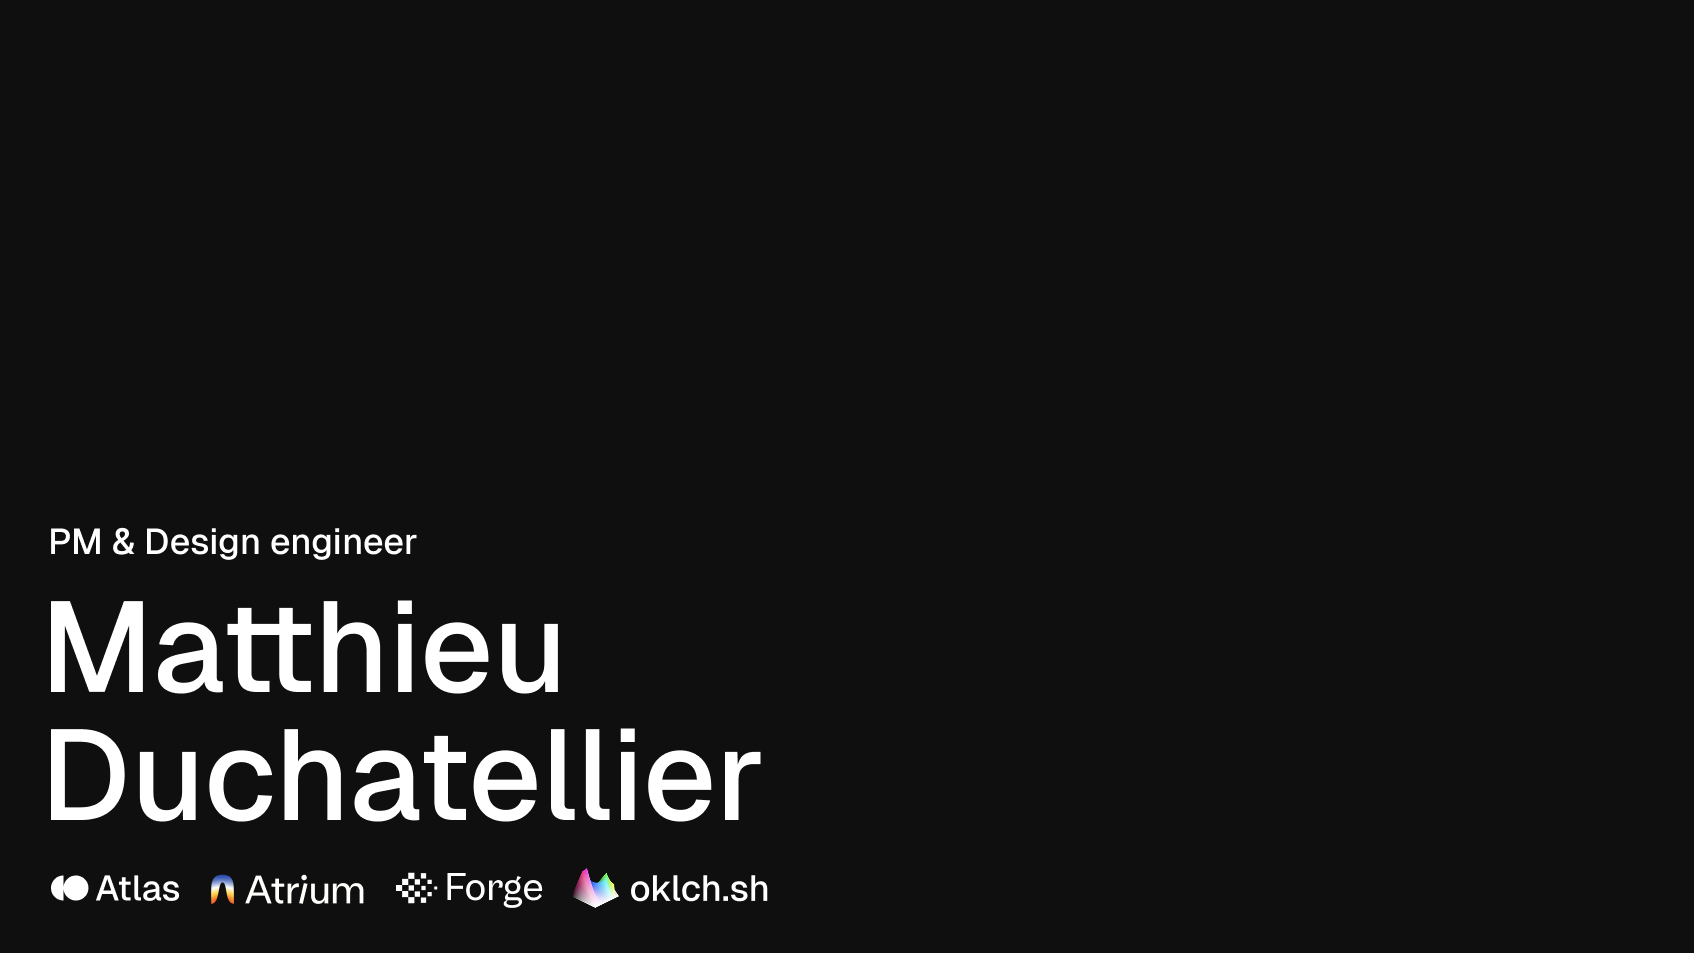
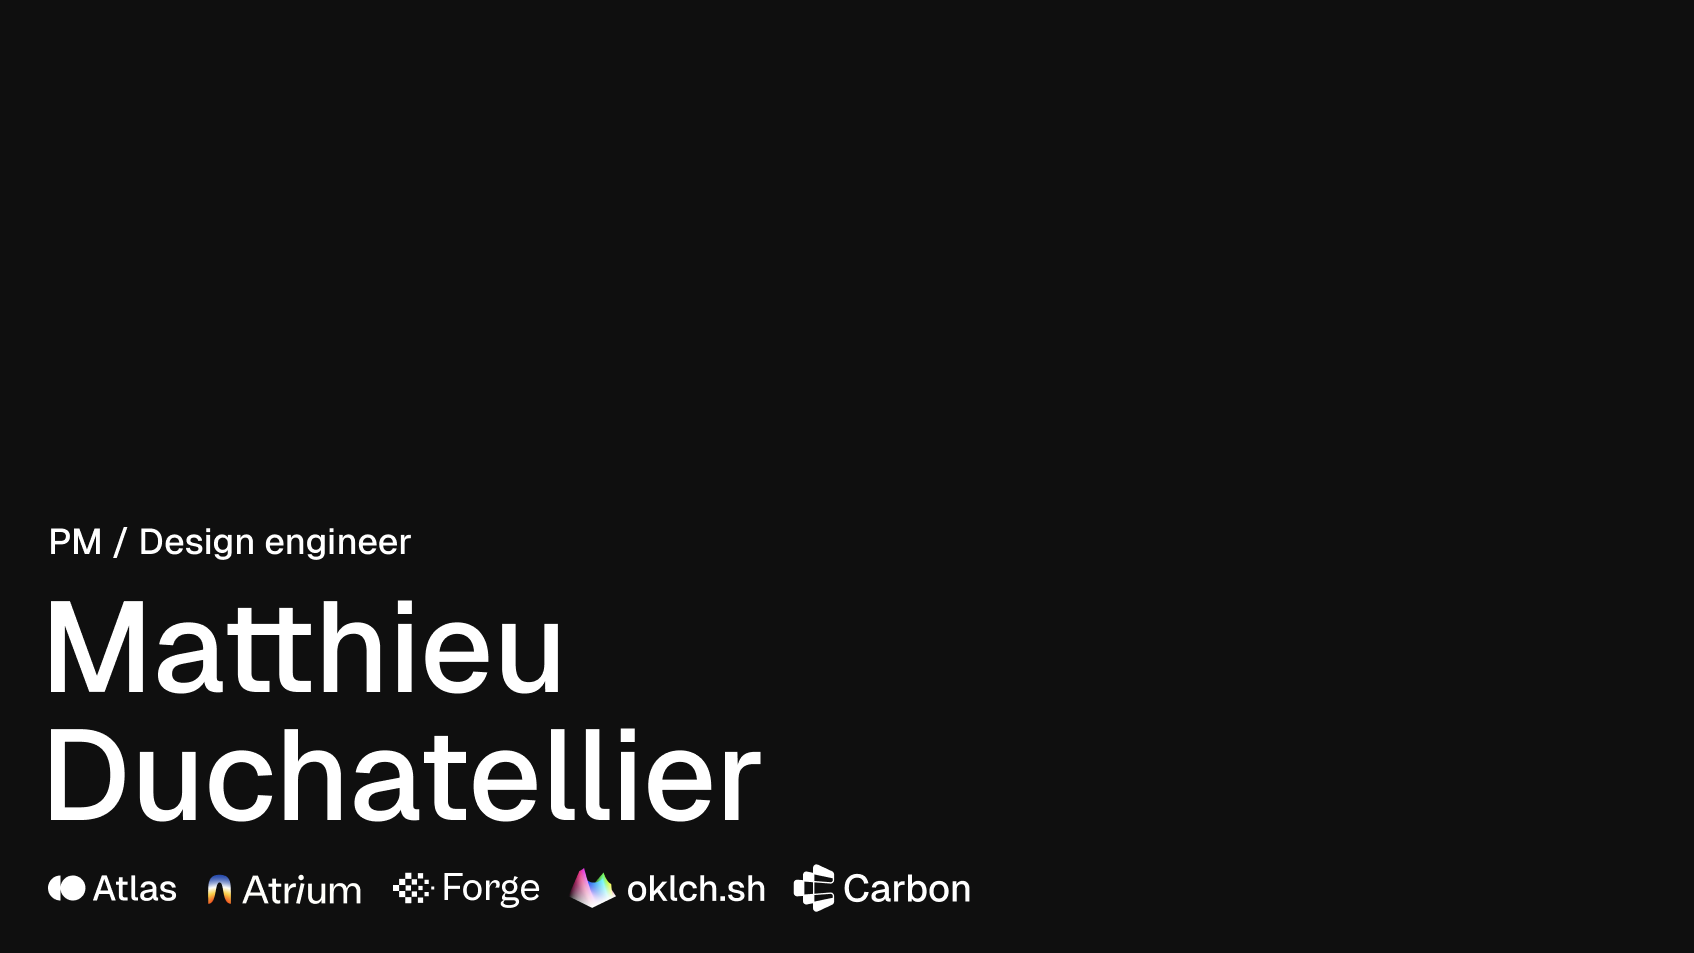
Update Carbon project link and preview image

Changed region(s): [[0.0307, 0.9129, 0.5832, 0.9738], [0.0614, 0.5477, 0.2456, 0.6086]]

diff --git a/apps/web/app/page.tsx b/apps/web/app/page.tsx
@@ -239,7 +239,7 @@ export default function Page() {
           </a>
           <a
             className={styles.projectCard}
-            href="https://carbon.forgenow.tech"
+            href="https://carbonhq.sh"
             target="_blank"
             rel="noreferrer"
           >
